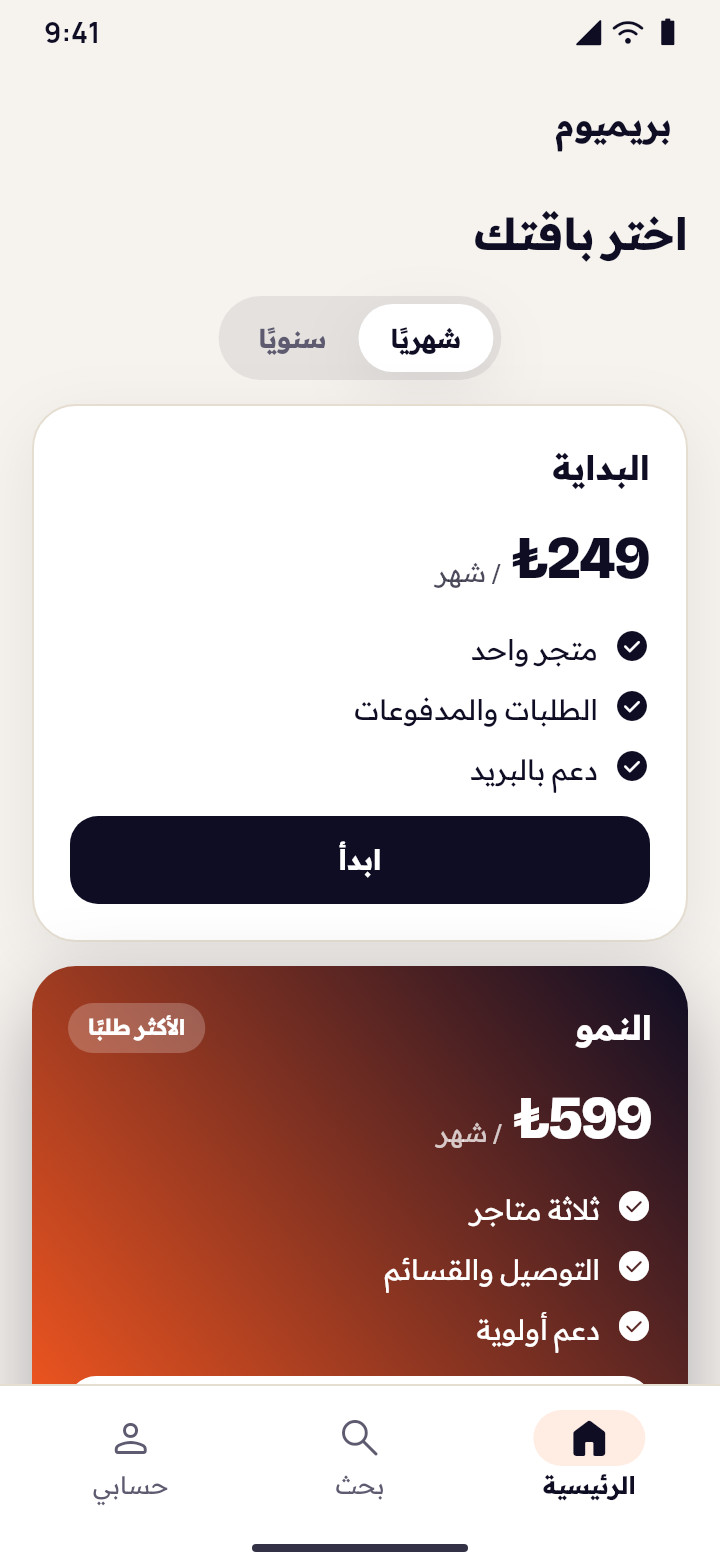
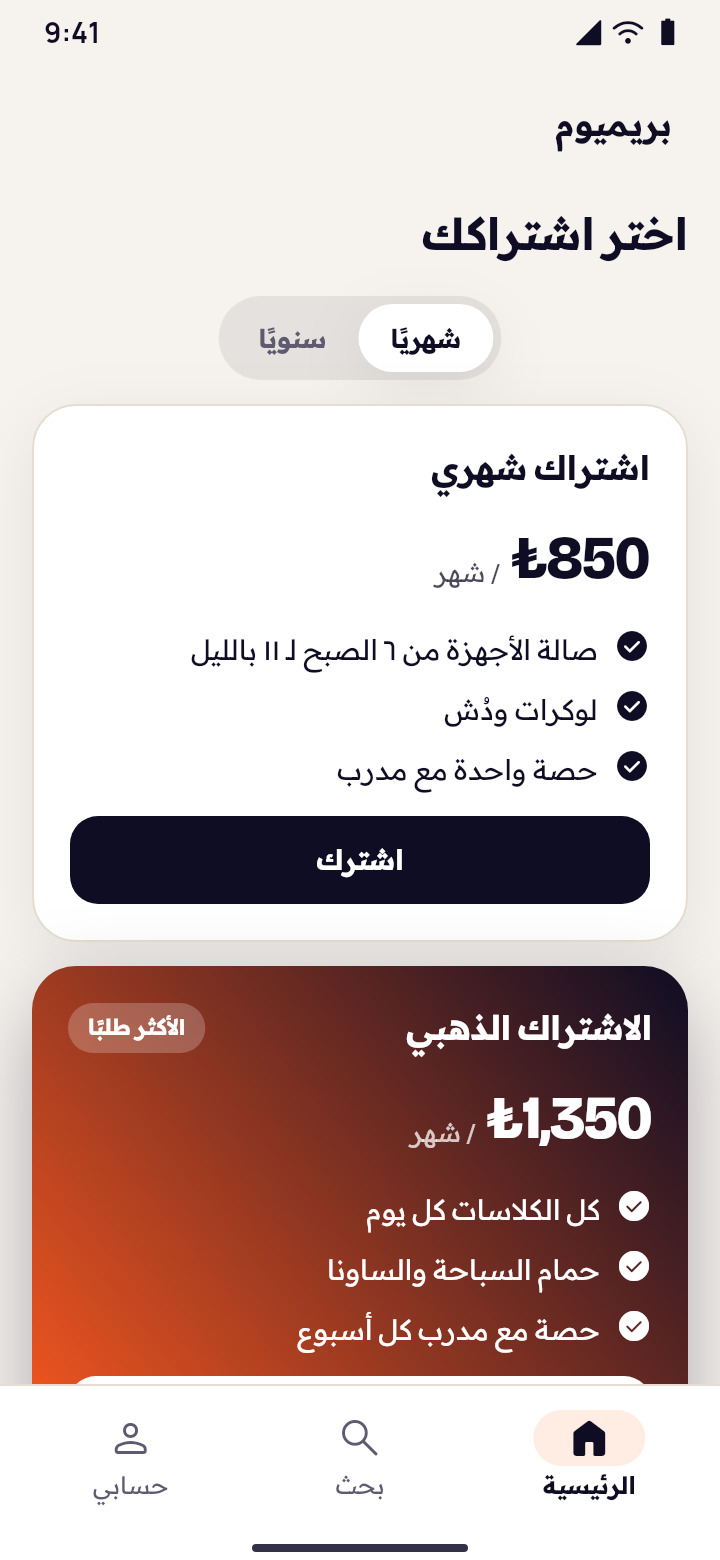
129.12 The pricing element's samples are a made-up gym's, never Yallapp's plans
The gallery's plans (pricing-light, -dark and -ar.png, drawn again by
premium_screenshots_test.dart) were named Starter and Growth at ₺249 and
₺599, Yallapp's own plan names, reading as Yallapp's prices. They are now a
made-up gym's passes: Monthly pass ₺850, Gold pass ₺1,350 (the popular one)
and Family pass ₺2,200 a month (yearly ₺8,500, ₺13,500, ₺22,000), with the
gym's own features and buttons, in English and Arabic. A new pricing
element's plans on Studio's canvas are Basic, Plus and Premium (Plus, not
Pro; `pmn_planPlus`), and the tests' sample plans (web, app, plugin) and the
roadmap's example price no longer use Yallapp's plan names or prices.

Claude-Session: https://claude.ai/code/session_01MSAbbHjPLVdK4KhggTQ4Tg

diff --git a/platform/web/tests/unit/phase129-premium-content.test.ts b/platform/web/tests/unit/phase129-premium-content.test.ts
@@ -116,13 +116,13 @@ describe("129.11–129.20 checked strictly, kept from known fields only", () => 
   });
 
   it("keeps prices as whole cents in a platform currency, and refuses others", () => {
-    const [node] = kept([{ id: "p", type: "pricing", pricing: { currency: "EGP", yearly: true }, entries: [{ title: "Pro", price: 45000, price_yearly: null, highlight: true }] }]);
+    const [node] = kept([{ id: "p", type: "pricing", pricing: { currency: "EGP", yearly: true }, entries: [{ title: "Gold pass", price: 45000, price_yearly: null, highlight: true }] }]);
     expect(node!.pricing).toEqual({ currency: "EGP", yearly: true });
-    expect(node!.entries).toEqual([{ title: "Pro", price: 45000, highlight: true }]);
-    expect(errors([{ id: "p", type: "pricing", entries: [{ title: "Pro", price: 4.5 }] }])).toContain("a price is a whole number of cents");
-    expect(errors([{ id: "p", type: "pricing", pricing: { currency: "XYZ" }, entries: [{ title: "Pro" }] }])).toContain("choose the plans' currency.");
+    expect(node!.entries).toEqual([{ title: "Gold pass", price: 45000, highlight: true }]);
+    expect(errors([{ id: "p", type: "pricing", entries: [{ title: "Gold pass", price: 4.5 }] }])).toContain("a price is a whole number of cents");
+    expect(errors([{ id: "p", type: "pricing", pricing: { currency: "XYZ" }, entries: [{ title: "Gold pass" }] }])).toContain("choose the plans' currency.");
     // The default currency is left out.
-    expect(kept([{ id: "p", type: "pricing", pricing: { currency: "TRY" }, entries: [{ title: "Pro" }] }])[0]!.pricing).toBeUndefined();
+    expect(kept([{ id: "p", type: "pricing", pricing: { currency: "TRY" }, entries: [{ title: "Gold pass" }] }])[0]!.pricing).toBeUndefined();
   });
 
   it("bounds the lists: 12 entries, texts by their limits, shares 0 to 100", () => {
@@ -170,8 +170,8 @@ describe("129.11–129.20 checked strictly, kept from known fields only", () => 
 
 describe("129.11–129.20 served and drawn", () => {
   it("serves each entry's texts in the language asked for", () => {
-    const entry = { title: "Pro", text: "One", translations: { ar: { title: "برو", text: "" } } };
-    expect(translated(entry, "ar", "en")).toEqual({ title: "برو", text: "One" });
+    const entry = { title: "Gold pass", text: "One", translations: { ar: { title: "الذهبي", text: "" } } };
+    expect(translated(entry, "ar", "en")).toEqual({ title: "الذهبي", text: "One" });
     const hosted = readFileSync(path.resolve(__dirname, "../../src/lib/hosted/pages/index.ts"), "utf8");
     expect(hosted).toContain("entries: own.entries.map((entry) => translated(entry, pc.lang, def))");
   });
@@ -211,12 +211,12 @@ describe("129.11–129.20 served and drawn", () => {
 
   it("draws a set price, the popular plan, rings, steps across and a glass card", () => {
     const html = draw([
-      { id: "p", type: "pricing", entries: [{ title: "Pro", price: 59900, highlight: true, text: "A\nB" }] },
+      { id: "p", type: "pricing", entries: [{ title: "Gold pass", price: 135000, highlight: true, text: "A\nB" }] },
       { id: "r", type: "progress", progress: { style: "rings" }, entries: [{ title: "Lessons", value: 80 }] },
       { id: "t", type: "timeline", timeline: { style: "horizontal" }, entries: [{ title: "A", highlight: true }, { title: "B" }] },
       { ...make("column", "glass_card"), id: "g" },
     ]);
-    expect(html).toContain("₺599");
+    expect(html).toContain("₺1,350");
     expect(html).toContain('data-studio-plan="popular"');
     expect(html).toContain('data-studio-progress="rings"');
     expect(html).toContain('data-studio-timeline="horizontal"');

diff --git a/mobile/test/support/premium_content_fixtures.dart b/mobile/test/support/premium_content_fixtures.dart
@@ -126,7 +126,13 @@ List<Map<String, dynamic>> premiumChildren(
       ];
     case 'pricing':
       return [
-        _text('h', w('Choose your plan', 'اختر باقتك'), size: 22, weight: 800),
+        // 129.12 A gym's own passes (Atlas Fitness, made up), at its own prices.
+        _text(
+          'h',
+          w('Choose your pass', 'اختر اشتراكك'),
+          size: 22,
+          weight: 800,
+        ),
         {
           'id': 'plans',
           'type': 'pricing',
@@ -135,35 +141,35 @@ List<Map<String, dynamic>> premiumChildren(
           'gap': 12,
           'entries': [
             {
-              'title': w('Starter', 'البداية'),
-              'price': 24900,
-              'price_yearly': 249000,
+              'title': w('Monthly pass', 'اشتراك شهري'),
+              'price': 85000,
+              'price_yearly': 850000,
               'text': w(
-                'One shop\nOrders and payments\nEmail support',
-                'متجر واحد\nالطلبات والمدفوعات\nدعم بالبريد',
+                'The gym floor, 6 am to 11 pm\nLockers and showers\nOne trainer session',
+                'صالة الأجهزة من ٦ الصبح لـ ١١ بالليل\nلوكرات ودُش\nحصة واحدة مع مدرب',
               ),
-              'label': w('Start', 'ابدأ'),
+              'label': w('Join', 'اشترك'),
             },
             {
-              'title': w('Growth', 'النمو'),
-              'price': 59900,
-              'price_yearly': 599000,
+              'title': w('Gold pass', 'الاشتراك الذهبي'),
+              'price': 135000,
+              'price_yearly': 1350000,
               'highlight': true,
               'text': w(
-                'Three shops\nDelivery and coupons\nPriority support',
-                'ثلاثة متاجر\nالتوصيل والقسائم\nدعم أولوية',
+                'Every class, every day\nThe pool and the sauna\nA trainer session a week',
+                'كل الكلاسات كل يوم\nحمام السباحة والساونا\nحصة مع مدرب كل أسبوع',
               ),
-              'label': w('Choose Growth', 'اختر النمو'),
+              'label': w('Go gold', 'اختار الذهبي'),
             },
             {
-              'title': w('Scale', 'التوسع'),
-              'price': 119900,
-              'price_yearly': 1199000,
+              'title': w('Family pass', 'اشتراك العيلة'),
+              'price': 220000,
+              'price_yearly': 2200000,
               'text': w(
-                'Every branch\nYour own app\nA manager for you',
-                'كل الفروع\nتطبيقك الخاص\nمدير حساب لك',
+                'Up to four people\nKids\' swimming lessons\nEvery class and the pool',
+                'لحد ٤ أفراد\nدروس سباحة للأطفال\nكل الكلاسات وحمام السباحة',
               ),
-              'label': w('Talk to us', 'تواصل معنا'),
+              'label': w('Join together', 'اشتركوا سوا'),
             },
           ],
         },

diff --git a/platform/web/src/lib/studio/premium-content.ts b/platform/web/src/lib/studio/premium-content.ts
@@ -15,7 +15,7 @@ export type PremiumText =
   | "quoteName"
   | "quoteRole"
   | "planBasic"
-  | "planPro"
+  | "planPlus"
   | "planPremium"
   | "planFeatures"
   | "planButton"
@@ -46,7 +46,7 @@ const WORDS_EN: Record<PremiumText, string> = {
   quoteName: "Customer name",
   quoteRole: "Their role or city",
   planBasic: "Basic",
-  planPro: "Pro",
+  planPlus: "Plus",
   planPremium: "Premium",
   planFeatures: "What this plan includes\nAnother thing it includes\nOne more",
   planButton: "Choose",
@@ -123,7 +123,7 @@ export function newPremiumNode(
         pricing: { yearly: true },
         entries: [
           { title: w("planBasic"), text: w("planFeatures"), label: w("planButton"), price: null, price_yearly: null },
-          { title: w("planPro"), text: w("planFeatures"), label: w("planButton"), price: null, price_yearly: null, highlight: true },
+          { title: w("planPlus"), text: w("planFeatures"), label: w("planButton"), price: null, price_yearly: null, highlight: true },
           { title: w("planPremium"), text: w("planFeatures"), label: w("planButton"), price: null, price_yearly: null },
         ],
       };

diff --git a/platform/web/src/i18n/dashboard/studio.ts b/platform/web/src/i18n/dashboard/studio.ts
@@ -127,7 +127,7 @@ export const en = {
   pmn_quoteName: "Customer name",
   pmn_quoteRole: "Their role or city",
   pmn_planBasic: "Basic",
-  pmn_planPro: "Pro",
+  pmn_planPlus: "Plus",
   pmn_planPremium: "Premium",
   pmn_planFeatures: "What this plan includes\nAnother thing it includes\nOne more",
   pmn_planButton: "Choose",
@@ -1961,7 +1961,7 @@ export const ar: Messages = {
   pmn_quoteName: "اسم العميل",
   pmn_quoteRole: "شغله أو مدينته",
   pmn_planBasic: "أساسية",
-  pmn_planPro: "برو",
+  pmn_planPlus: "بلس",
   pmn_planPremium: "بريميوم",
   pmn_planFeatures: "اللي في الباقة دي\nحاجة تانية فيها\nكمان حاجة",
   pmn_planButton: "اختار",
@@ -3775,7 +3775,7 @@ export const tr: Messages = {
   pmn_quoteName: "Müşterinin adı",
   pmn_quoteRole: "Görevi veya şehri",
   pmn_planBasic: "Temel",
-  pmn_planPro: "Pro",
+  pmn_planPlus: "Plus",
   pmn_planPremium: "Premium",
   pmn_planFeatures: "Bu planın içerdiği\nİçerdiği başka bir şey\nBir tane daha",
   pmn_planButton: "Seç",

diff --git a/mobile/test/widget/phase129_premium_content_test.dart b/mobile/test/widget/phase129_premium_content_test.dart
@@ -156,8 +156,8 @@ void main() {
     'plans: the price written as the shop writes it, the switch, the popular one',
     (tester) async {
       await open(tester, api(premiumChildren('pricing')));
-      expect(find.text('₺249'), findsOneWidget);
-      expect(find.text('₺599'), findsOneWidget);
+      expect(find.text('₺850'), findsOneWidget);
+      expect(find.text('₺1,350'), findsOneWidget);
       expect(find.text('/ month'), findsNWidgets(3));
       expect(find.text('Most popular'), findsOneWidget);
       expect(
@@ -166,9 +166,9 @@ void main() {
       );
       await tester.tap(find.byKey(const ValueKey('premium-period-year')));
       await tester.pump();
-      expect(find.text('₺5,990'), findsOneWidget);
+      expect(find.text('₺13,500'), findsOneWidget);
       expect(find.text('/ year'), findsNWidgets(3));
-      expect(find.text('₺599'), findsNothing);
+      expect(find.text('₺1,350'), findsNothing);
     },
   );
 

diff --git a/wp-plugin/yallapp/tests/unit/StudioPremiumContent129Test.php b/wp-plugin/yallapp/tests/unit/StudioPremiumContent129Test.php
@@ -70,7 +70,7 @@ class StudioPremiumContent129Test extends TestCase {
 					),
 					'entries' => array(
 						array(
-							'title'     => 'Pro',
+							'title'     => 'Gold pass',
 							'price'     => 45000,
 							'highlight' => true,
 						),

diff --git a/docs/ROADMAP.md b/docs/ROADMAP.md
@@ -3205,7 +3205,7 @@ The owner (13 November) asked for very many premium elements and sections in Stu
 | [x] | 129.7 `parallax_banner` (a new premium layout): a photo banner whose photo, a little taller than it, moves slower than the page as it scrolls (`parallax.speed`, 10 to 90% of the page's), still on phones that reduce motion, under its `scrim`, the words and buttons it holds over it, in a frosted glass panel with `glass` (also for the video banner). Starts rounded with its words in the panel. Gallery: parallax_banner-*.png | `studio-premium-motion.test.ts`, `phase129_studio_premium_motion_test.dart`, `StudioPremiumMotion129Test.php`, `premium_motion_gallery_test.dart` |
 | [x] | 129.8 Motion for every element: the Motion tab's entrance (none, fade in, rise, come down, slide in from the start or the end, scale up; its time and wait) now plays once when the element first comes onto the screen, in the app as people scroll to it (not when the page is built) and on Studio's canvas when it first comes into view, again when its entrance changes (`lib/studio/motion.ts`, the same keyframes as the inspector's Play); nothing moves on phones or computers that reduce motion. Gallery: motion-*.png | `studio-premium-motion.test.ts`, `phase129_studio_premium_motion_test.dart`, `premium_motion_gallery_test.dart` |
 | [x] | 129.11 `testimonials`, a new Studio element (Elements › Premium): quote cards with the person's photo (else their initial), name, role, the stars drawn as icons (read out as "5 out of 5 stars") and the quote, side by side to swipe or stacked (`testimonials.style`); the owner's own list (`entries`, the new `StudioEntry`: up to 12, each text translated), or with `testimonials.reviews` a course's or a product's real approved reviews of 4 stars and up with words, from the app's own reviews (`GET /courses/{course_id}/reviews`, `GET /store/products/{product_id}/reviews`), the owner's quotes while there are none; on Studio's canvas (`components/studio/premium/testimonials.tsx`), in its inspector (layout, real reviews of which course or product, each quote's words, name, role, stars and photo, moved, added, removed, in the language being edited) and in the app (`modules/shared/pages/premium/premium_testimonials.dart`); contract, page checker and the WordPress plugin (`Studio_Premium`); light and dark, right to left. Gallery: `public/screens/premium/testimonials-{light,dark,ar}.png` | `phase129-premium-content.test.ts`, `phase129_premium_content_test.dart`, `StudioPremiumContent129Test.php`, `premium_screenshots_test.dart` |
-| [x] | 129.12 `pricing`: plan cards with the name, the price in the platform's own money format (`formatCents` on the canvas, `formatMoney` in the app: "₺599", cents only when there are some) in one of the platform's currencies (`pricing.currency`, TRY when not chosen) with "/ month" or "/ year", the features one per line with a check icon each, a button with its tap, and the most popular plan (`highlight`) in the brand's two colours with its "Most popular" chip; a monthly / yearly switch over the plans (`pricing.yearly`, each plan's `price_yearly`). No price is ever made up: a new element's plans have none, the canvas shows the owner "Set a price" where to fill it (in the editor only) and the app shows none until they do; prices are whole cents typed as the shop's prices are | `phase129-premium-content.test.ts`, `phase129_premium_content_test.dart`, `StudioPremiumContent129Test.php`, `premium_screenshots_test.dart` |
+| [x] | 129.12 `pricing`: plan cards with the name, the price in the platform's own money format (`formatCents` on the canvas, `formatMoney` in the app: "₺1,350", cents only when there are some) in one of the platform's currencies (`pricing.currency`, TRY when not chosen) with "/ month" or "/ year", the features one per line with a check icon each, a button with its tap, and the most popular plan (`highlight`) in the brand's two colours with its "Most popular" chip; a monthly / yearly switch over the plans (`pricing.yearly`, each plan's `price_yearly`). No price is ever made up: a new element's plans have none, the canvas shows the owner "Set a price" where to fill it (in the editor only) and the app shows none until they do; prices are whole cents typed as the shop's prices are. A new element's plans are named Basic, Plus and Premium, never Yallapp's own plans' names; the gallery (pricing-*.png) shows a made-up gym's passes (Monthly pass, Gold pass, Family pass at ₺850, ₺1,350 and ₺2,200 a month) | `phase129-premium-content.test.ts`, `phase129_premium_content_test.dart`, `StudioPremiumContent129Test.php`, `premium_screenshots_test.dart` |
 | [x] | 129.13 `stats`: big numbers with their labels, text before and after them ("+", "%", " min") and an optional icon, counting up once when they first show on the screen (the final value at once on phones that reduce motion, and always for screen readers); thin lines between them (`stats.dividers`) or each in a card (`stats.style` `cards`); one in the second colour (`highlight`); for the Signature boards, a hero number at the element's own font ("07:42", "6 min", "E£ 35": from 40 up the text before and after it small beside it), at the start (`stats.start`) and without counting (`stats.still`) | `phase129-premium-content.test.ts`, `phase129_premium_content_test.dart`, `premium_screenshots_test.dart` |
 | [x] | 129.14 `progress`: bars with their label and share in the brand's two colours (or an entry's own colour), or rings with the share inside and the label under (`progress.style` `rings`, running counter-clockwise right to left), one or a set, filling once when they show (full at once with reduced motion; "Arabic: 86 percent" for screen readers); for the Signature boards, a ring of any size (`progress.size`, `stroke`) with tick marks around it (`ticks`), a knob at its end (`knob`), a photo inside it with a chip over its foot or an icon (the 226 px gold ring with 18 marks), an entry's gradient, and rows of short segments (`segments`: 18 lessons, an order's 4 stages) | `phase129-premium-content.test.ts`, `phase129_premium_content_test.dart`, `premium_screenshots_test.dart` |
 | [x] | 129.15 `timeline`: steps with a dot each on a line, a date, a title and a text; the steps up to the active one (`highlight`) done in the brand's colour with a check, the active one ringed and read out as "Step 3 of 4, Current step"; down the page or across it (`timeline.style` `horizontal`, from the right in Arabic); for the Signature boards, a school day with the times in a column at the start (`times`), the class now as a card with its chip and its bar (`card`, the entry's `label` and `value`), dates in a monospaced font (`mono`), and a trip's legs with a bar over each (`bars`) | `phase129-premium-content.test.ts`, `phase129_premium_content_test.dart`, `premium_screenshots_test.dart` |
